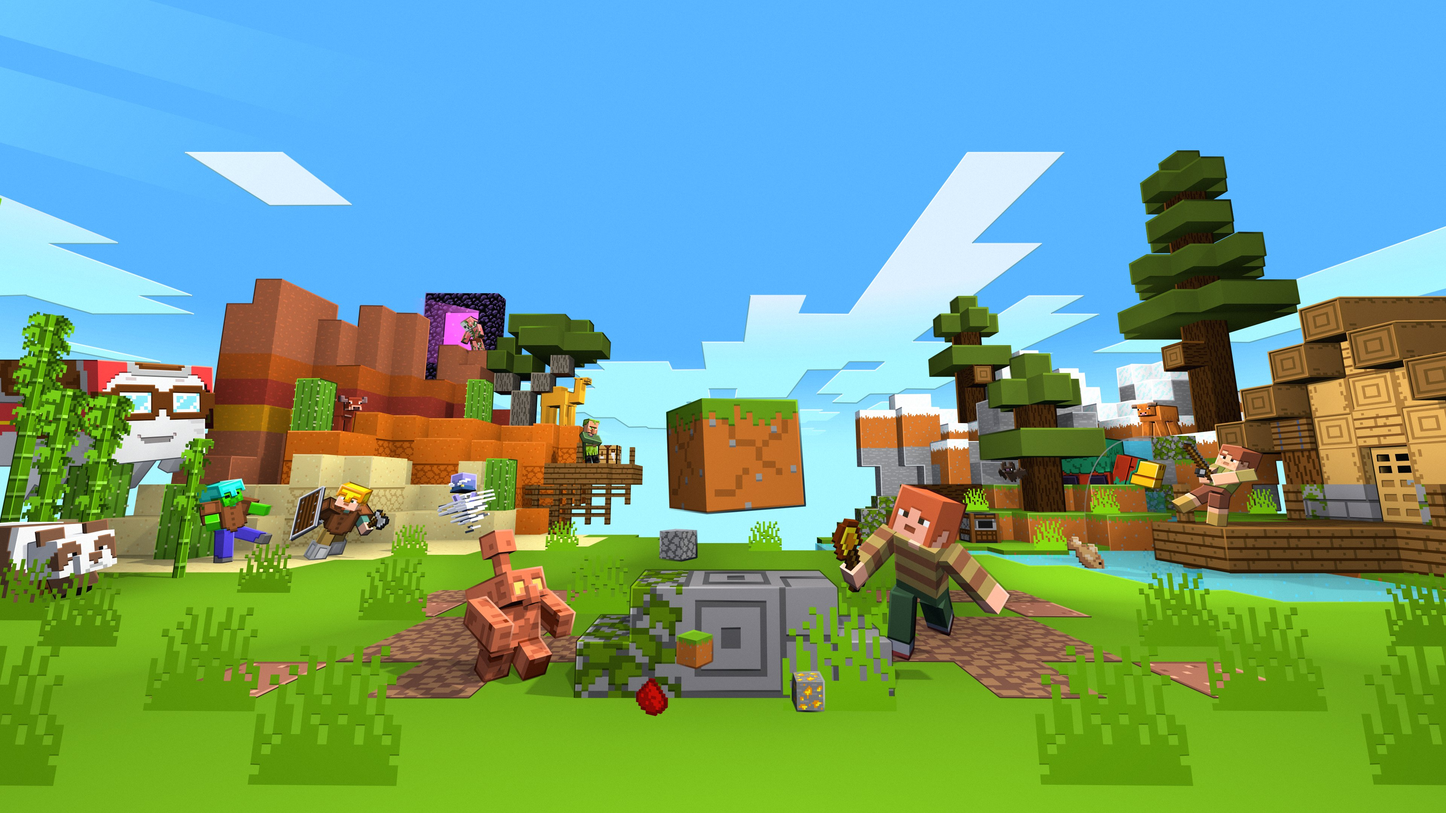
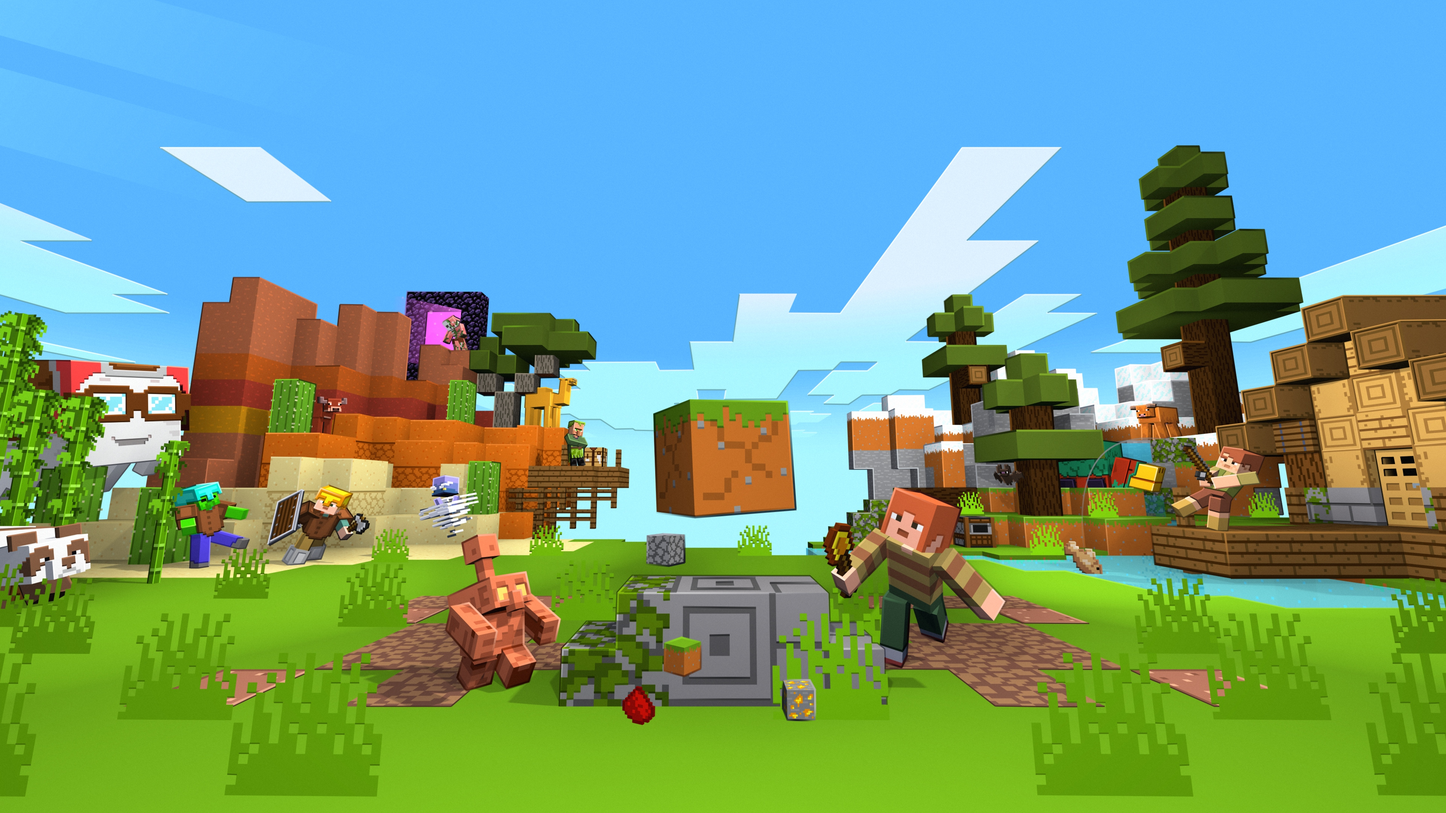
some not-so-recent changes
gotta start with a clean slate, ya know...

diff --git a/downloads.html b/downloads.html
@@ -68,6 +68,45 @@
                     <a><div class="download-patch-notes"><span>patch notes</span><img src="assets/icons/open_source.svg"></div></a>
                 </div>
             </div>
+            <div>
+                <img class="download-render" src="assets/blog/oneblock_trials.png">
+                <div class="download-contents">
+                    <div class="download-info">
+                        <h2>Challenges & Villagers</h2>
+                        <p>Version 2.5.0</p>
+                        <div class="game-version"><img src="assets/icons/game_version.svg"><span>1.21.5</span></div>
+                        <div class="game-platform"><img src="assets/icons/game_platform.svg"><span>Java edition</span></div>
+                        <div class="file-type"><img src="assets/icons/file_type.svg"><span>ZIP</span></div>
+                    </div>
+                    <a><div class="download-patch-notes"><span>patch notes</span><img src="assets/icons/open_source.svg"></div></a>
+                </div>
+            </div>
+            <div>
+                <img class="download-render" src="assets/blog/oneblock_trials.png">
+                <div class="download-contents">
+                    <div class="download-info">
+                        <h2>Challenges & Villagers</h2>
+                        <p>Version 2.5.0</p>
+                        <div class="game-version"><img src="assets/icons/game_version.svg"><span>1.21.5</span></div>
+                        <div class="game-platform"><img src="assets/icons/game_platform.svg"><span>Java edition</span></div>
+                        <div class="file-type"><img src="assets/icons/file_type.svg"><span>ZIP</span></div>
+                    </div>
+                    <a><div class="download-patch-notes"><span>patch notes</span><img src="assets/icons/open_source.svg"></div></a>
+                </div>
+            </div>
+            <div>
+                <img class="download-render" src="assets/blog/oneblock_trials.png">
+                <div class="download-contents">
+                    <div class="download-info">
+                        <h2>Challenges & Villagers</h2>
+                        <p>Version 2.5.0</p>
+                        <div class="game-version"><img src="assets/icons/game_version.svg"><span>1.21.5</span></div>
+                        <div class="game-platform"><img src="assets/icons/game_platform.svg"><span>Java edition</span></div>
+                        <div class="file-type"><img src="assets/icons/file_type.svg"><span>ZIP</span></div>
+                    </div>
+                    <a><div class="download-patch-notes"><span>patch notes</span><img src="assets/icons/open_source.svg"></div></a>
+                </div>
+            </div>
         </div>
     </main>
 </body>

diff --git a/oneblock.css b/oneblock.css
@@ -1,14 +1,15 @@
 .frontpage {
     height: 100vh;
     position: relative;
-    background: linear-gradient(to bottom, #4acdfc, #c1eefe)
+    background: linear-gradient(to bottom, #4acdfc, #c1eefe);
+    overflow: hidden
 }
 
 .keyart {
     position: absolute;
     z-index: 0;
-    width: 100%;
-    max-height: 100vh;
+    min-width: 100vw;
+    height: 100vh;
     object-fit: cover
 }
 
@@ -18,7 +19,7 @@ nav {
 }
 
 .hero {
-    width: 40%;
+    width: 55%;
     margin: 30px auto 0;
     position: relative;
     z-index: 1
@@ -77,12 +78,6 @@ nav {
     background-color: var(--crimson-light)
 }
 
-.project-attributes {
-    display: flex;
-    gap: 10px;
-    height: 10vh
-}
-
 .hero-download > button {
     height: 50px;
     background-color: transparent;
@@ -93,7 +88,12 @@ nav {
 }
 
 .scroll-arrow {
-    height: 50px
+    height: 50px;
+    transition: 0.15s
+}
+
+.scroll-arrow:hover {
+    transform: translateY(5px)
 }
 
 .gradient {
@@ -105,8 +105,16 @@ nav {
     background: linear-gradient(to bottom, rgba(255,0,0,0), rgba(24, 24, 24,1) 90%)
 }
 
+.project-attributes {
+    display: flex;
+    gap: 10px;
+    justify-content: center;
+    height: 10vh;
+    margin: 50px auto
+}
+
 #project-carousel {
-    margin: 150px auto
+    margin: 80px auto 150px
 }
 
 .carousel-preview {
@@ -188,17 +196,17 @@ div.project-blog > div {
 }
 
 .project-blog-item {
-    flex: 1;
-    transition: 0.2s
+    flex: 1
 }
 
-.project-blog-item:hover {
+.project-blog-item:hover img {
     scale: 97.5%
 }
 
 .project-blog-item img {
     width: 100%;
-    border-radius: 20px
+    border-radius: 20px;
+    transition: 0.2s
 }
 
 .project-blog-item p {

diff --git a/oneblock.html b/oneblock.html
@@ -36,20 +36,20 @@
                 <a href="downloads.html">download</a>
                 <a href="">versions</a>
             </div>
-            <div class="project-attributes">
-                <img src="assets/oneblock/icon.png">
-                <img src="assets/oneblock/icon.png">
-                <img src="assets/oneblock/icon.png">
-            </div>
             <button type="button" onclick="document.getElementById('project-carousel').scrollIntoView({ block: 'center',  behavior: 'smooth' })"><img class="scroll-arrow" src="assets/icons/scroll_arrow.png"></button>
         </div>
         <div class="gradient"></div>
     </section>
+    <div class="project-attributes">
+                <img src="assets/oneblock/icon.png">
+                <img src="assets/oneblock/icon.png">
+                <img src="assets/oneblock/icon.png">
+    </div>
     <div id="project-carousel">
         <div class="carousel-preview">
-            <img src="assets/art.png">
-            <img src="assets/art.png">
-            <img src="assets/art.png">
+            <img class="test-icon" src="assets/art.png">
+            <img class="test-icon" src="assets/art.png">
+            <img class="test-icon" src="assets/art.png">
             <img src="assets/art.png">
             <img src="assets/art.png">
             <img src="assets/art.png">

diff --git a/downloads.css b/downloads.css
@@ -73,14 +73,16 @@ p.download-header {
     justify-content: space-between
 }
 
-.download-patch-notes:hover {
-    text-decoration: underline
+.download-patch-notes:hover span {
+    text-decoration: underline;
+    color: white
 }
 
 .download-patch-notes span {
     font-size: 15px;
     text-transform: uppercase;
-    font-weight: 600
+    font-weight: 600;
+    color: lightgrey
 }
 
 .download-patch-notes img {

diff --git a/blog.css b/blog.css
@@ -53,7 +53,8 @@ p {
 
 .paragraph {
     width: 65%;
-    margin: 30px auto
+    margin: 30px auto;
+    color: lightgrey
 }
 
 .quote-box {
